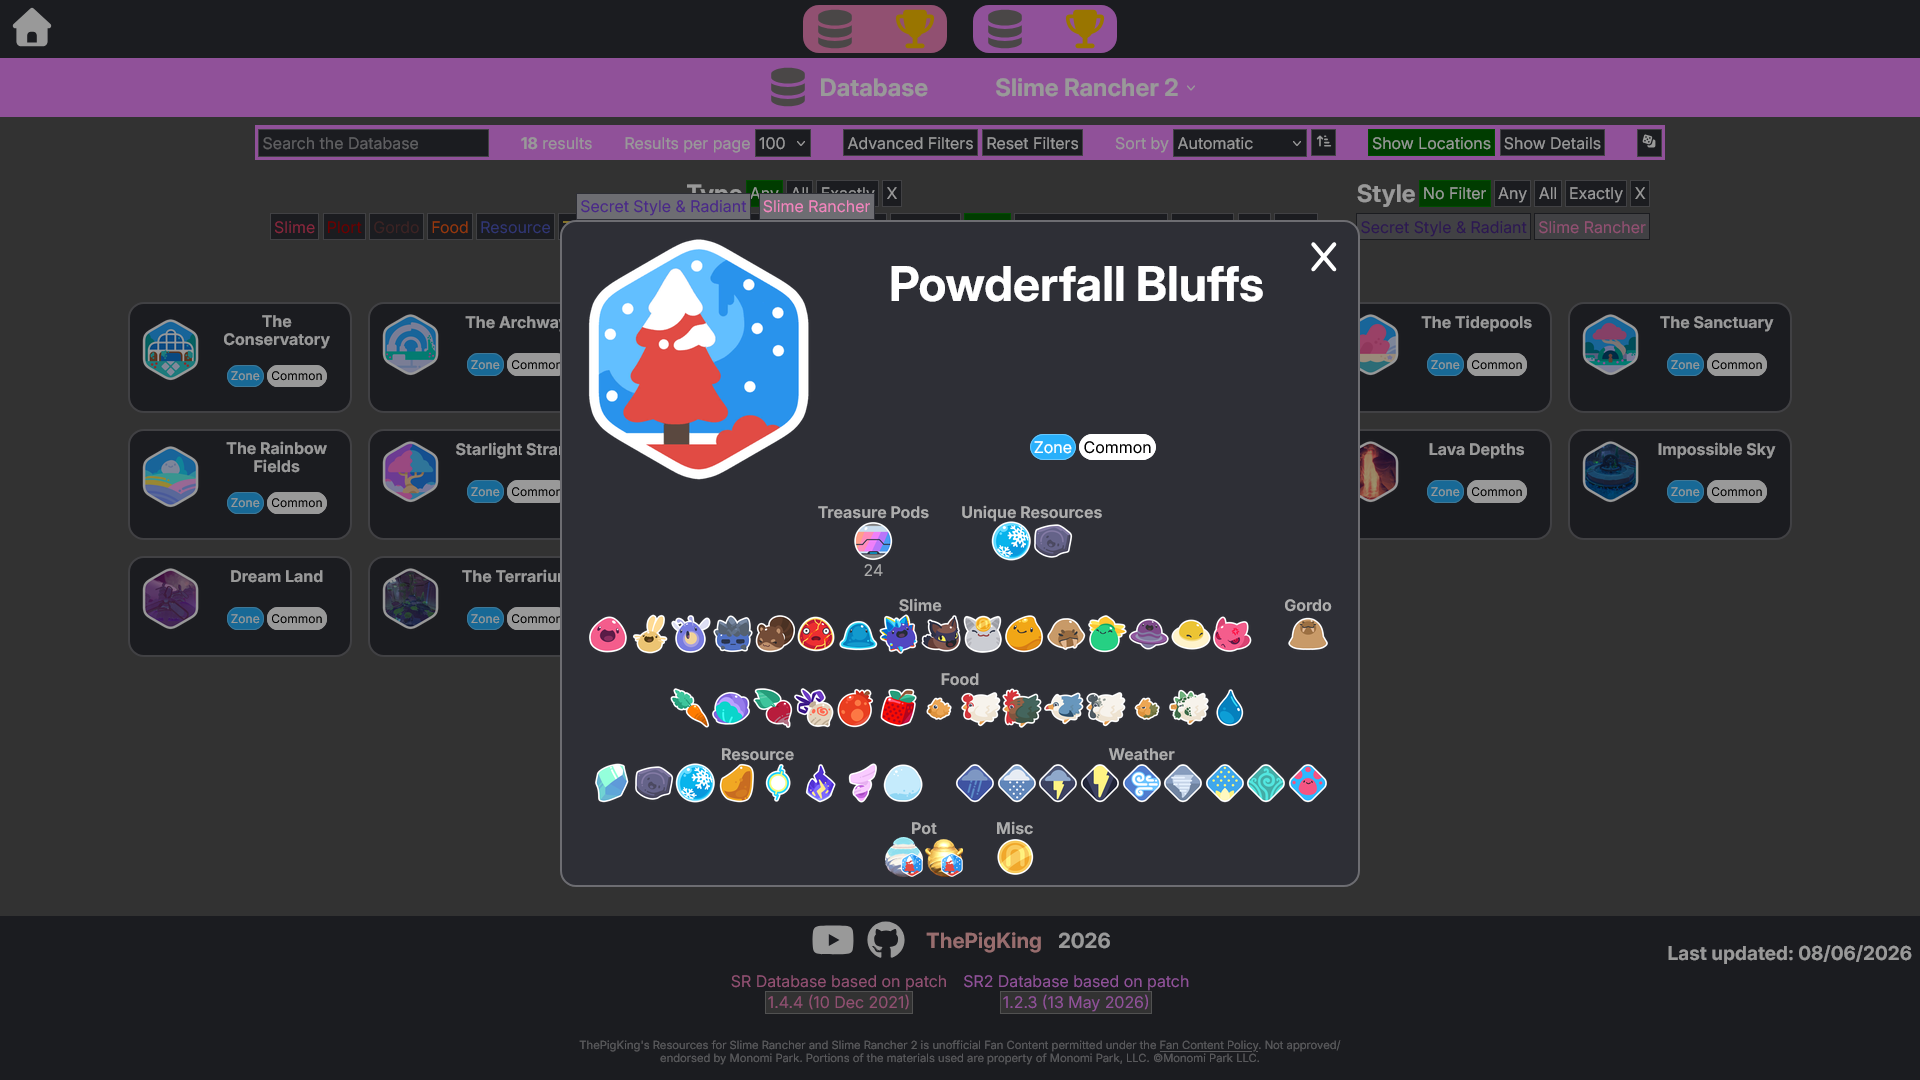
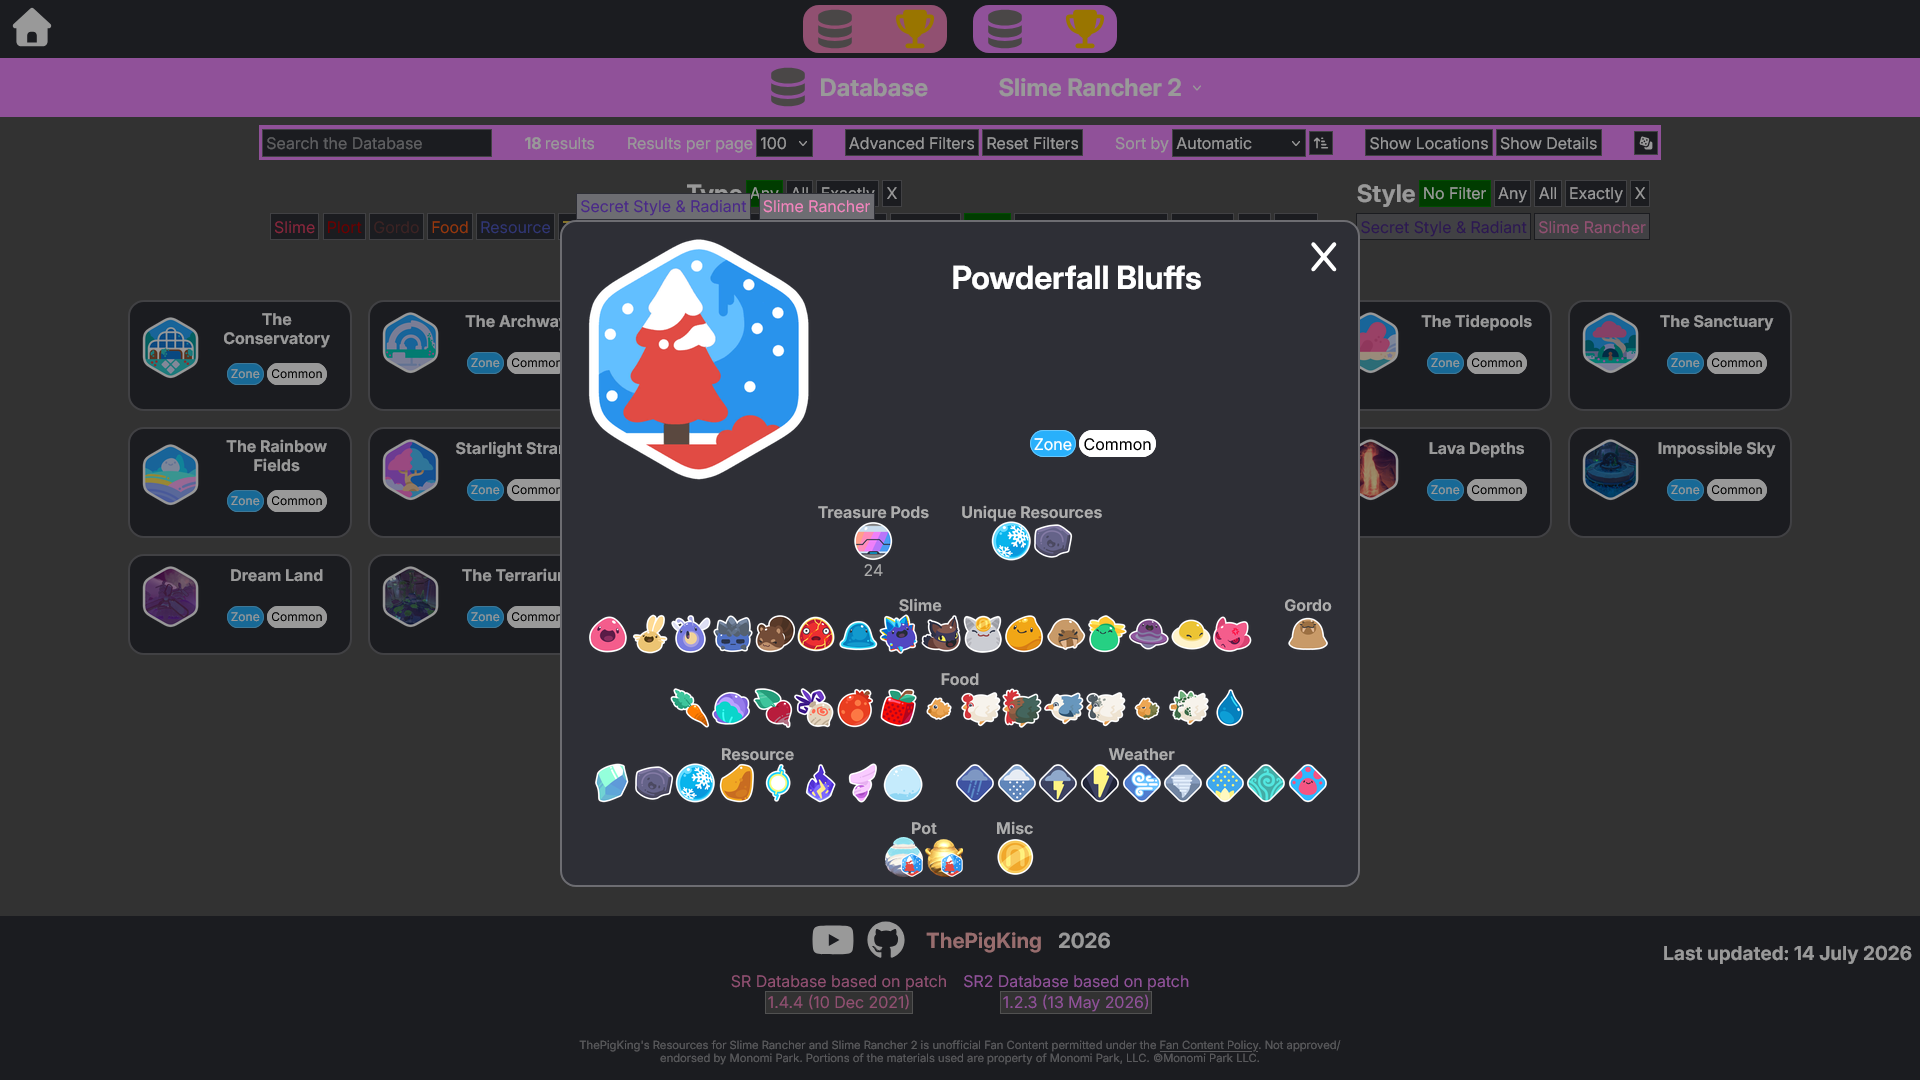
docs: update readme screenshots

diff --git a/slime-rancher-2/database/index.html b/slime-rancher-2/database/index.html
@@ -182,7 +182,7 @@
               </button>
             </div>
             <div>
-              <button class="btn toggledOn" id="toggle-locations-btn">
+              <button class="btn" id="toggle-locations-btn">
                 Show Locations
               </button>
               <button class="btn" id="toggle-details-btn">Show Details</button>

diff --git a/slime-rancher/database/index.html b/slime-rancher/database/index.html
@@ -182,7 +182,7 @@
               </button>
             </div>
             <div>
-              <button class="btn toggledOn" id="toggle-locations-btn">
+              <button class="btn" id="toggle-locations-btn">
                 Show Locations
               </button>
               <button class="btn" id="toggle-details-btn">Show Details</button>
